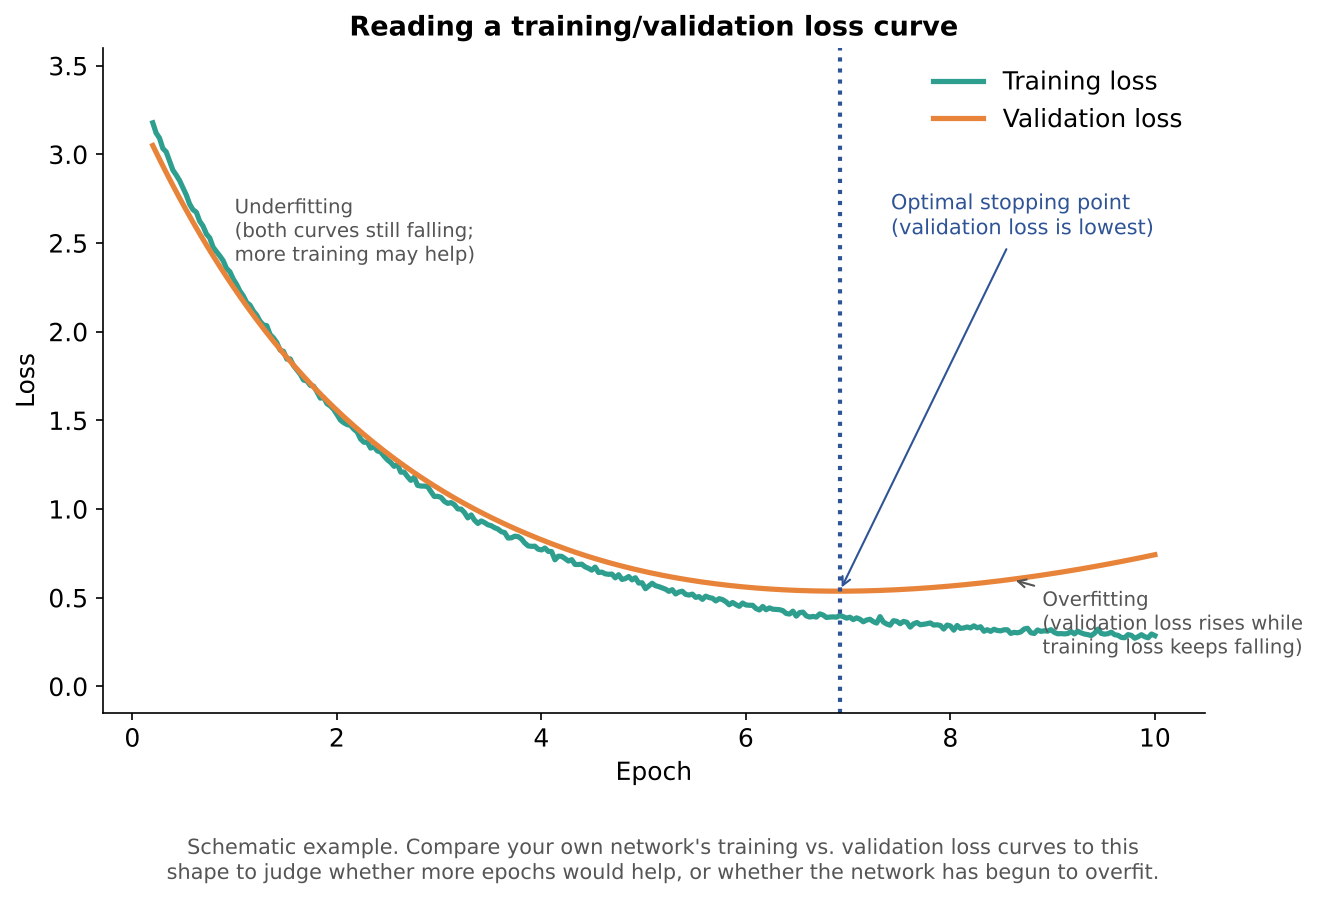
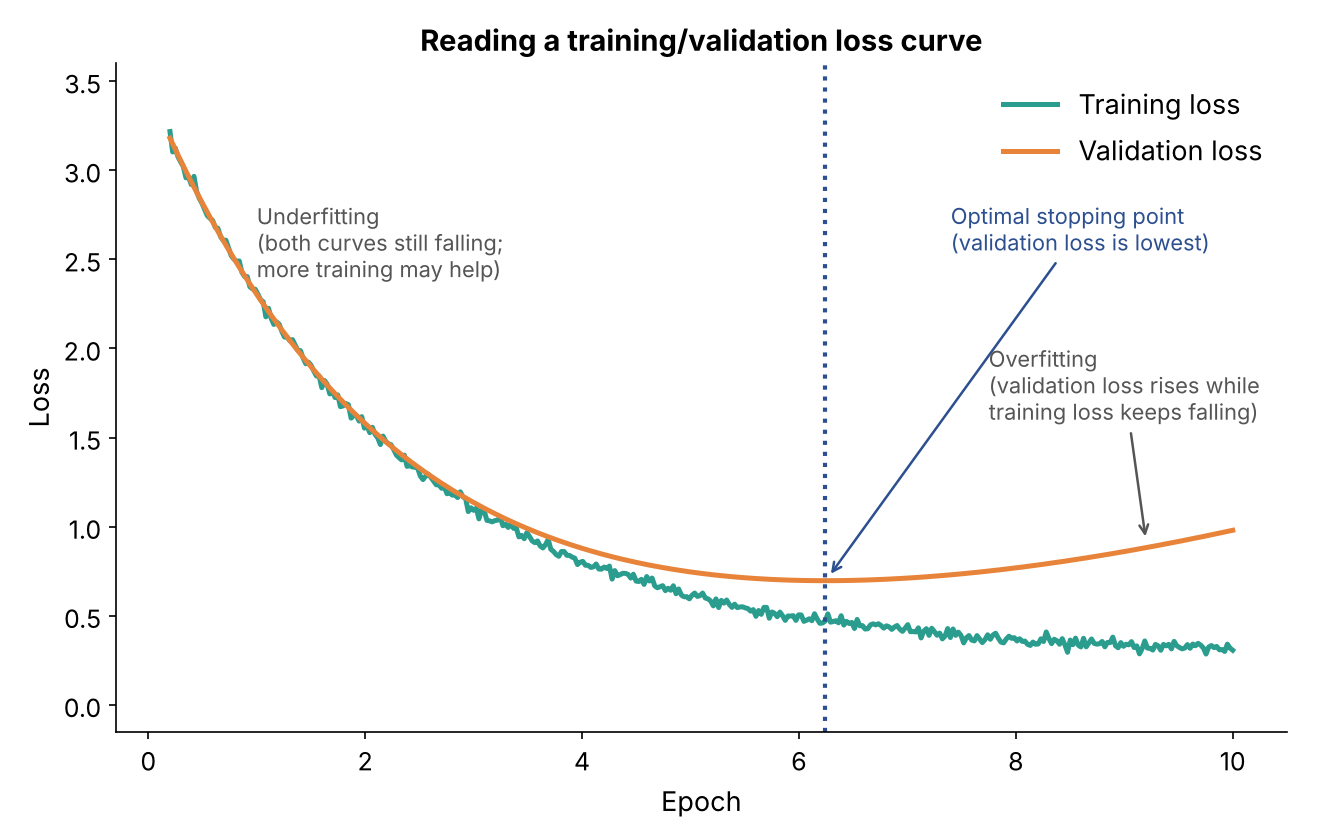
Update training and validation loss curve

diff --git a/docs/tutorial.html b/docs/tutorial.html
@@ -253,6 +253,11 @@ ul.task-list li input[type="checkbox"] {
 <ul>
 <li><strong>Annotated training and evaluation data and DeepAcoustics-derived networks for multi-class baleen whale calls</strong> (doi: <a href="https://doi.org/10.5061/dryad.x0k6djj2d" class="uri">https://doi.org/10.5061/dryad.x0k6djj2d</a>)</li>
 </ul>
+<p>Data Sources:</p>
+<ul>
+<li><p>NOAA Office of National Marine Sanctuaries, and US Navy (2021). Humpback Whale Sound Production Recorded at SanctSound Site MB01_06, SanctSound Data Products. NOAA National Centers for Environmental Information. (Accessed 18 February 2026).</p></li>
+<li><p>NSF Ocean Observatories Initiative (n.d.). Coastal Endurance Array, Oregon Offshore and Oregon Shelf Cabled Benthic Experiment Packages, Broadband Hydrophone (CE04OSBP-LJ01C-11-HYDBBA105; CE02SHBP-LJ01D-11-HYDBBA106) data. OOI Raw Data Archive. <a href="https://rawdata.oceanobservatories.org/files/." class="uri">https://rawdata.oceanobservatories.org/files/.</a> Accessed 2020.</p></li>
+</ul>
 <section id="downloading-the-data" class="level4">
 <h4 class="anchored" data-anchor-id="downloading-the-data">Downloading the data</h4>
 <p>Download the <strong>tutorial_data</strong> folder from the <a href="https://github.com/Ocean-Science-Analytics/DeepAcoustics_Guide_and_Tutorial/tree/master/tutorial_data">DeepAcoustics Guide and Tutorial GitHub repository</a>. Save it somewhere easy to find, such as your Documents folder, and keep the folder structure as it is.</p>
